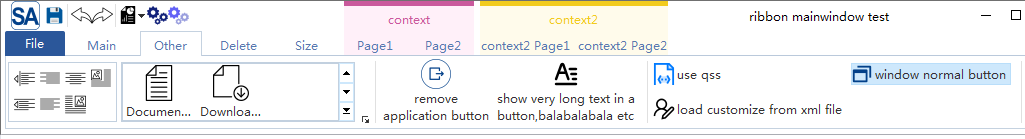
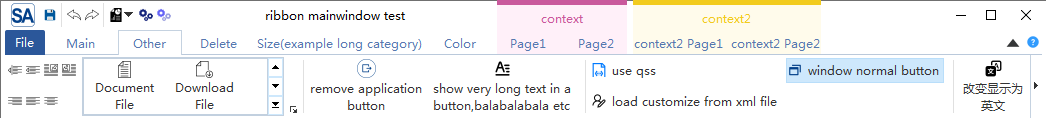
添加按钮布局文本

diff --git a/doc/ribbon-toolbutton.md b/doc/ribbon-toolbutton.md
@@ -1,0 +1,60 @@
+Ribbon界面无法用普通的tab+toolbutton组合来实现主要就是因为ribbon界面对工具按钮有特殊的渲染方式，和经典菜单按钮是有很大不同的，在没有菜单的情况下没有什么区别，但有菜单的情况下，会有明显不同
+
+差别主要通过下面这个动图可以提现，尤其是在MenuPopup模式下，按钮会被拆分为两部分，普通的工具栏是左右拆分，而ribbon的工具按钮是上下拆分
+
+![ribbon工具按钮](./pic/ribbon-toolbutton.gif)
+
+# ribbon工具栏按钮绘制方案
+
+`SARibbon`的工具栏按钮为`SARibbonToolButton`，它继承`QToolButton`，重写了其绘图方法
+
+工具栏按钮分3个矩形区域，一个是icon绘制区域，一个是文本显示区域，一个是indicator绘制区域
+
+三个区域会有两种布局方案，根据文本是否换行来进行布局
+
+## 文字换行显示的布局方案
+
+换行模式下，文本区域会占据两行行高，office的word就是这种布局方案
+
+![](./pic/office-word-wrodwrap.png)
+
+可以看到，第一个pannel文本没有换行，会有一行的留白，第二个pannel文本都换行，充满了文本区域,且能看到菜单的箭头在第二行最右边
+
+对于没有换行的文本，但有菜单的情况下，indicator在第二行文本处
+
+![](./pic/office-word-wrodwrap2.png)
+
+下图为`SARibbonToolButton`文本换行的布局方案
+
+![](./pic/ribbon-toolbutton-largebutton.png)
+
+indicator是有菜单时的下箭头提示，在文本确切要换行时，下箭头在第二行文本的最右边，若在换行模式，但文本没有换行，第二行的位置就用来显示indicator
+
+> 注意，如果文本太长，`SARibbonToolButton`会尝试换行，由于英文的文本每个单词不是定长，因此会在原有文本单行显示的长度基础上先尝试1/2的长度能否换行完全显示，如果显示不了，就把长度递增为1/2+1/3，并继续尝试，如果3次都无法容纳下，就显示为原来的长度
+
+> 注意，换行模式下，用户可以手动给文本换行，就是加入`\n`换行，加入`\n`的文本，`SARibbonToolButton`就不用进行换行估算
+
+> 注意，带有`\n`的文本在不换行模式下也可正常显示，此时`\n`会被忽略掉
+
+## 文字不换行显示的布局方案
+
+对于不换行的方案，最经典的就是wps的布局方案，wps-word所有文字都是一行，不存在换行的情况，indicator布置在最右边
+
+![](./pic/wps-word-nowrodwrap.png)
+
+wps的方案尤其适合显示中文文本，但英文会有可能放不下，或者英文太长，单行很难显示全，因此如果要显示英文，建议使用换行方案，要显示中文，建议使用不换行方案
+
+`SARibbonToolButton`不换行的布局方案如下
+
+![](./pic/ribbon-toolbutton-largebutton-nowordwrap.png)
+
+# 如何布置一个更美观的Ribbon界面
+
+如果文字都比较短，又没有菜单情况下，使用换行模式显示会有一行文本的留白，如果很多的话会不太美观
+
+![](./pic/office-excel-oneline-spacing.png)
+
+此时又如下几种方案：
+
+- 大小搭配，如2个大按钮搭配3个小按钮
+- 使用\n强制换行,尤其是4个文字的情况下可以两个两个
